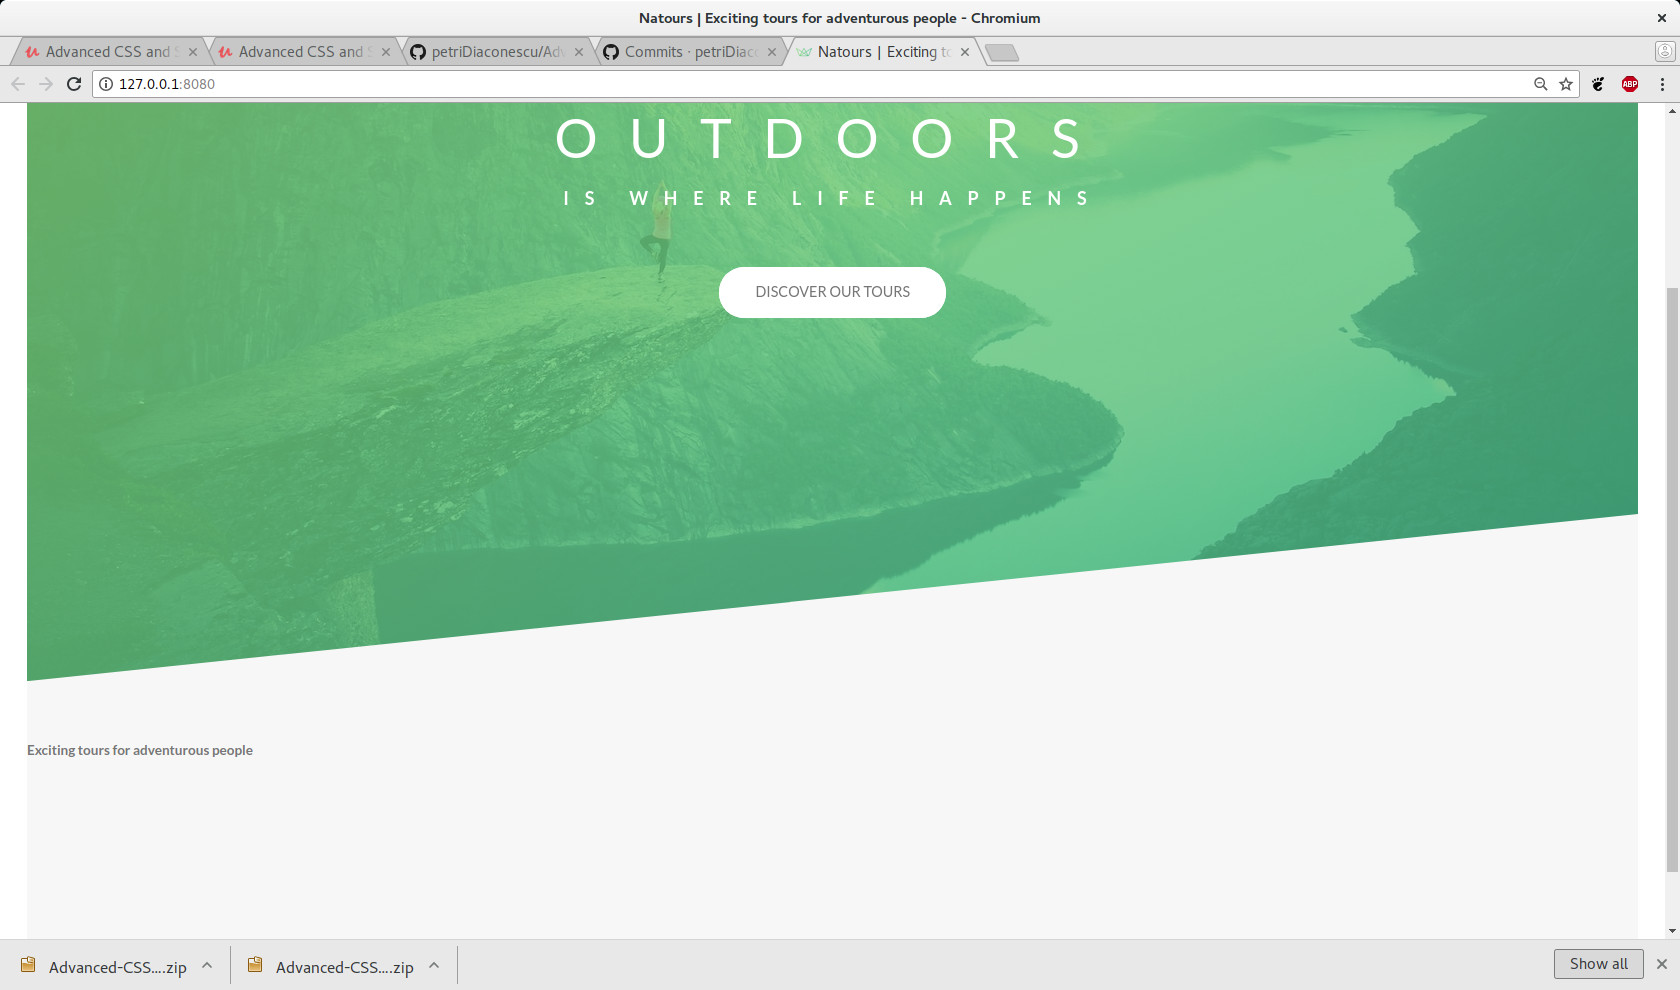
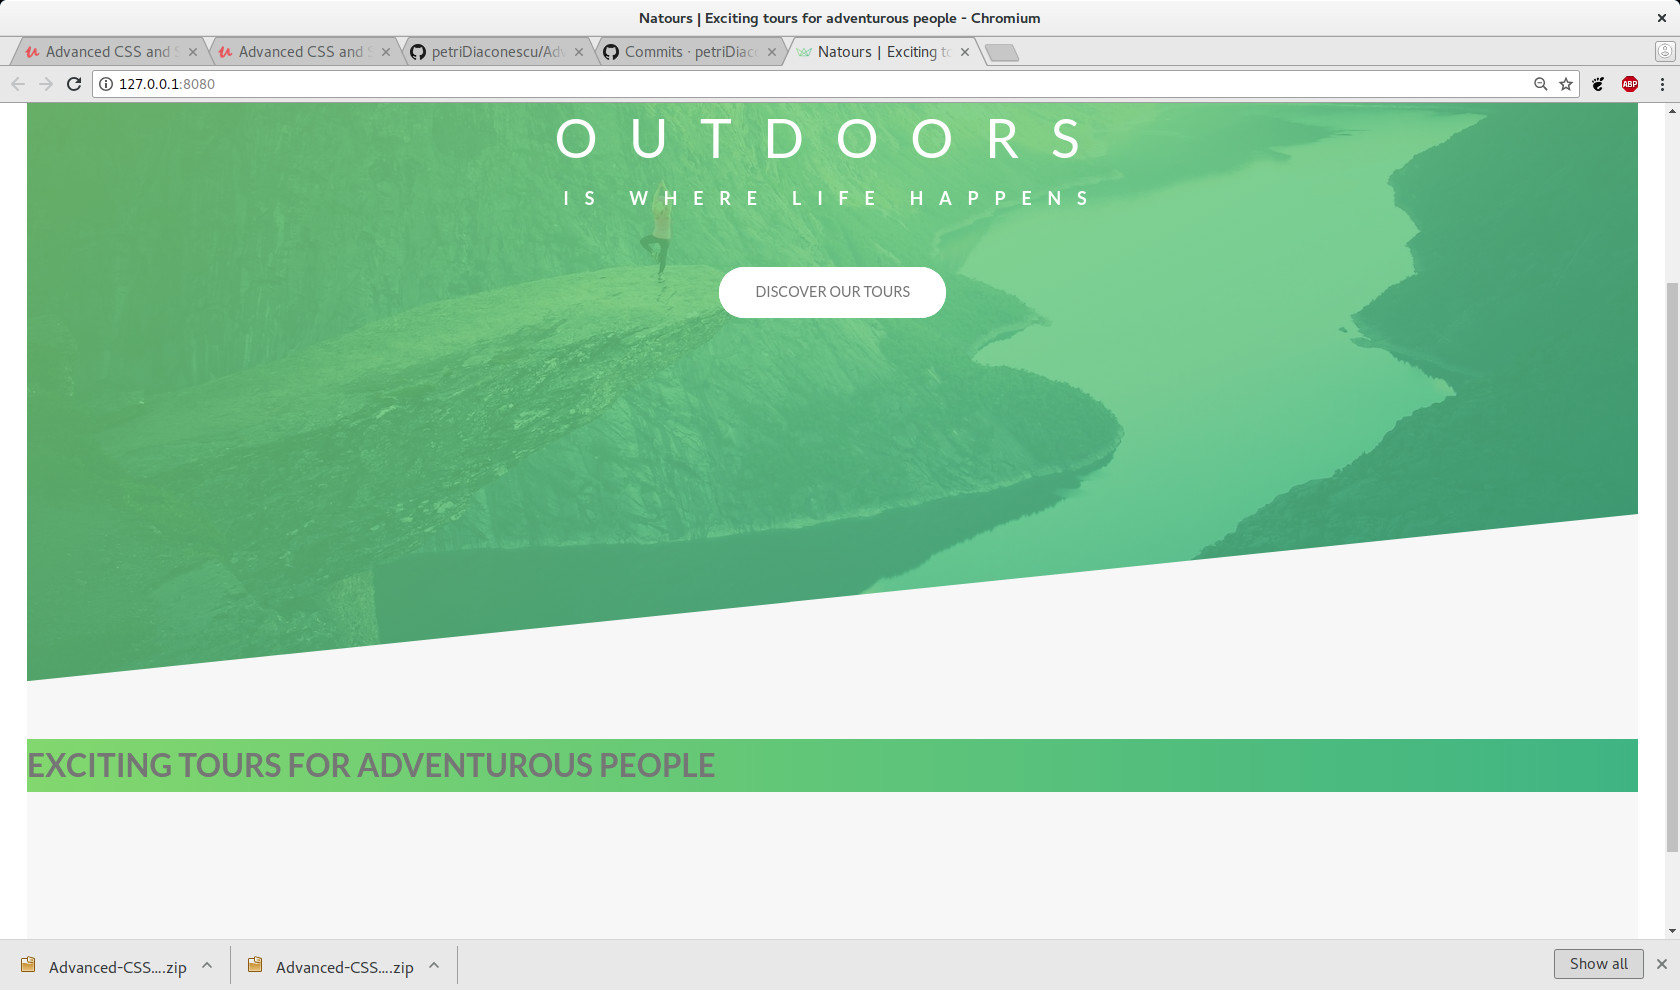
Make the linear gradient bakground image to show through the text with -webkit-background-clip declaration

Changed region(s): [[0.0, 0.7273, 0.9905, 0.8182], [0.9905, 0.8485, 1.0, 0.8788], [0.9905, 0.2727, 1.0, 0.303]]

diff --git a/sass/base/_typography.scss b/sass/base/_typography.scss
@@ -45,7 +45,10 @@ body {
   font-size: 3.5rem;
   font-weight: 700;
   text-transform: uppercase;
+  display: inline-block;
   background-image: linear-gradient(to right, $color-primary-light, $color-primary-dark);
+  -webkit-background-clip: text;
+  color: transparent;
 }
 
 
